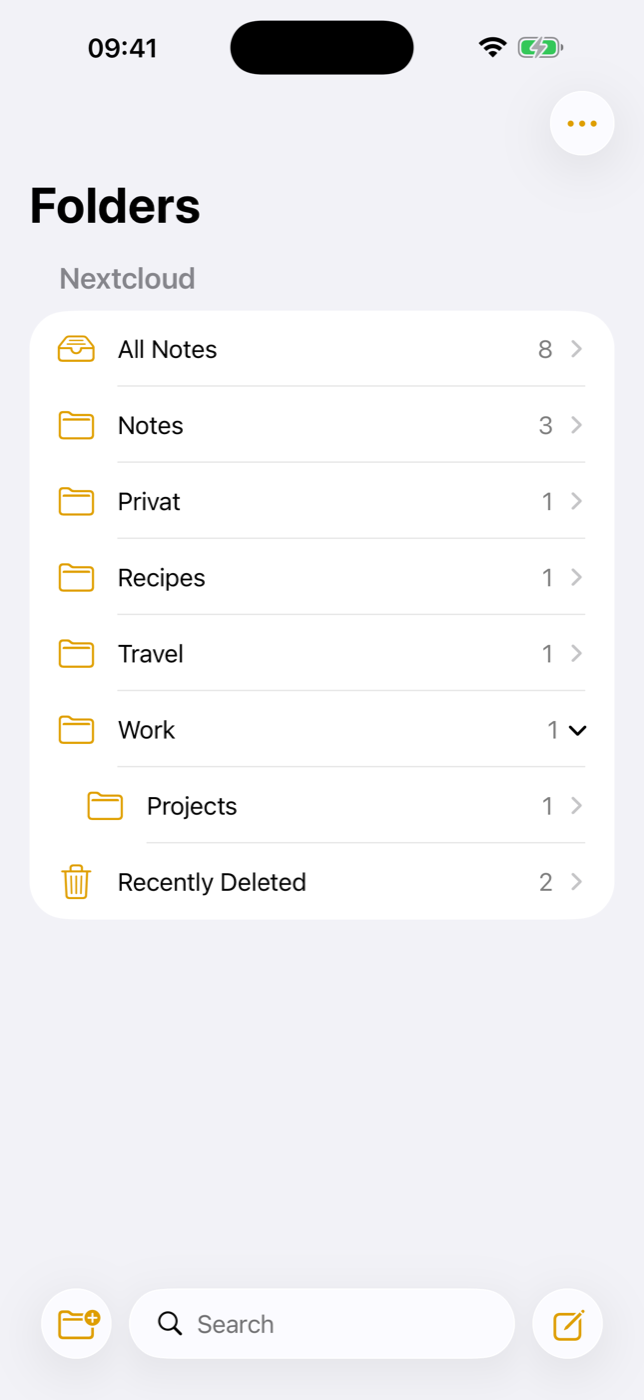
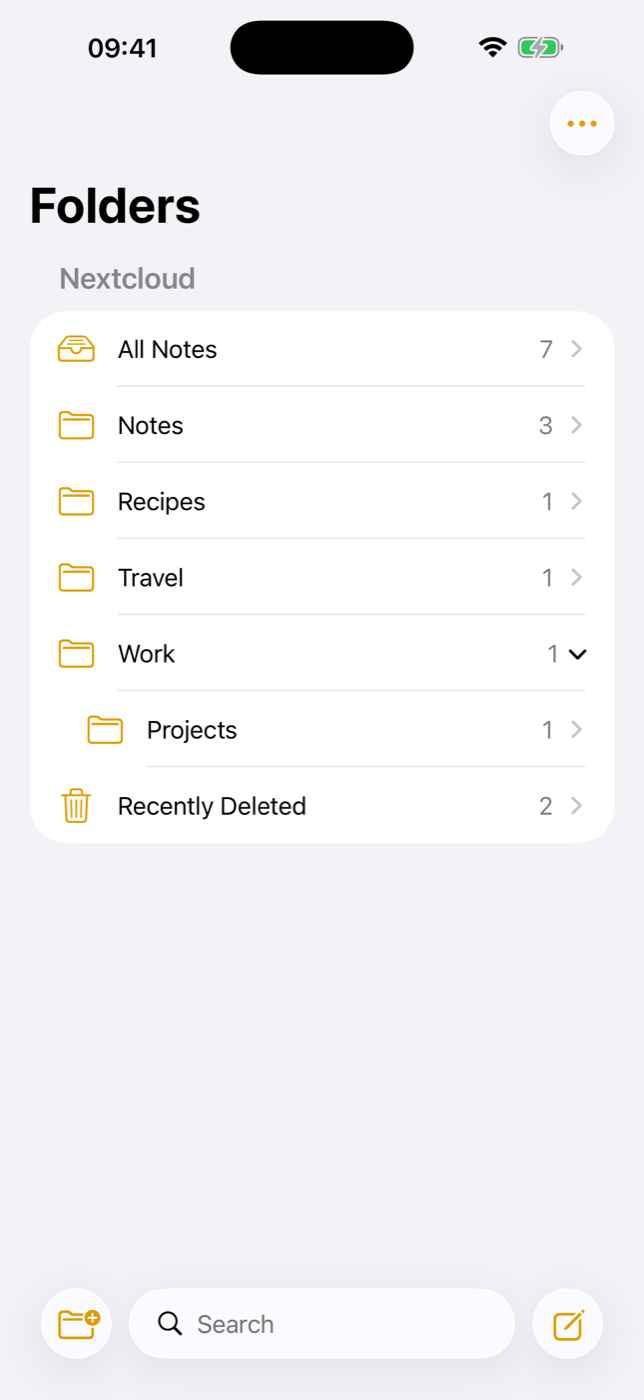
New notes go to the viewed folder like Apple Notes; joinable sync; English-only screenshots
- New note from a note opened in All Notes lands in the default folder Notes; only a viewed
  folder (also with an open note) receives it (Router.category(forNewNoteIn:), unit + UI test)
- Pull to refresh while a sync is running now waits for it and syncs again instead of returning at once
- Screenshots retaken with English demo data only

diff --git a/Tests/UI/HomeNotesUITests.swift b/Tests/UI/HomeNotesUITests.swift
@@ -68,4 +68,47 @@ final class HomeNotesUITests: XCTestCase {
         app.buttons["Löschen"].firstMatch.tap()
         XCTAssertFalse(app.staticTexts[title].firstMatch.waitForExistence(timeout: 3))
     }
+
+    /// Neue Notiz aus einer Notiz heraus, die in „Alle Notizen“ geöffnet wurde → Standardordner „Notizen“.
+    @MainActor
+    func testNewNoteFromAllNotesGoesToDefaultFolder() throws {
+        let env = ProcessInfo.processInfo.environment
+        guard let s = env["NOTES_SERVER"], let u = env["NOTES_USER"], let p = env["NOTES_PASSWORD"], !s.isEmpty else {
+            throw XCTSkip("Kein Testkonto")
+        }
+        let app = XCUIApplication()
+        app.launchEnvironment = ["NOTES_SERVER": s, "NOTES_USER": u, "NOTES_PASSWORD": p]
+        app.launchArguments = ["-AppleLanguages", "(de)", "-AppleLocale", "de_DE"]
+        app.launch()
+
+        // eine Notiz aus einem anderen Ordner (Demodaten „Travel“) in „Alle Notizen“ öffnen
+        let other = app.buttons.matching(NSPredicate(format: "identifier BEGINSWITH 'note.' AND label CONTAINS 'Travel'")).firstMatch
+        guard other.waitForExistence(timeout: 20) else { throw XCTSkip("Keine Notiz im Ordner Travel") }
+        other.tap()
+        XCTAssertTrue(app.textViews["editor"].waitForExistence(timeout: 10))
+
+        let title = "Ordnertest \(Int(Date().timeIntervalSince1970) % 100000)"
+        app.buttons["compose"].firstMatch.tap()
+        let editor = app.textViews["editor"]
+        XCTAssertTrue(editor.waitForExistence(timeout: 10))
+        editor.typeText(title)
+        app.buttons["done"].firstMatch.tap()
+        app.navigationBars.buttons.element(boundBy: 0).tap()
+
+        let row = app.buttons["note.\(title)"].firstMatch
+        XCTAssertTrue(row.waitForExistence(timeout: 10))
+        XCTAssertTrue(row.label.contains("Notizen"), row.label)
+        XCTAssertFalse(row.label.contains("Travel"), row.label)
+
+        // aufräumen: löschen und aus „Zuletzt gelöscht“ entfernen
+        row.swipeLeft()
+        app.buttons["Löschen"].firstMatch.tap()
+        app.navigationBars.buttons.element(boundBy: 0).tap()
+        let trash = app.buttons["folder.trash"].firstMatch
+        if trash.waitForExistence(timeout: 10) {
+            trash.tap()
+            let t = app.staticTexts[title].firstMatch
+            if t.waitForExistence(timeout: 5) { t.swipeLeft(); app.buttons["Löschen"].firstMatch.tap() }
+        }
+    }
 }

diff --git a/App/Editor/EditorView.swift b/App/Editor/EditorView.swift
@@ -18,7 +18,8 @@ struct NoteEditorView: View {
     @Environment(\.dismiss) private var dismiss
     @AppStorage("newNoteStyle") private var newNoteStyle = BlockKind.title.rawValue
     @State private var editor = EditorController()
-    @State private var router = AttachRouter.shared
+    @State private var attachRouter = AttachRouter.shared
+    @Environment(Router.self) private var router
     @State private var photoItems: [PhotosPickerItem] = []
     @State private var showPhotos = false
     @State private var showCamera = false
@@ -46,9 +47,9 @@ struct NoteEditorView: View {
             .onChange(of: store.serverRevision) {
                 if let n = note, !isTrash { editor.reloadIfChanged(markdown: n.content, modified: n.modifiedDate) }
             }
-            .onChange(of: router.pending) {
-                guard let s = router.pending else { return }
-                router.pending = nil
+            .onChange(of: attachRouter.pending) {
+                guard let s = attachRouter.pending else { return }
+                attachRouter.pending = nil
                 attach(s)
             }
             .sheet(item: $editor.tableEdit) { e in
@@ -157,7 +158,8 @@ struct NoteEditorView: View {
                 }
                 ToolbarSpacer(.flexible, placement: .bottomBar)
                 ToolbarItem(placement: .bottomBar) {
-                    NewNoteButton(category: note?.category ?? "", replace: true)
+                    // wie Apple: Ordner der Liste, aus der die Notiz geöffnet wurde („Alle Notizen“ → Standardordner)
+                    NewNoteButton(category: router.categoryForNewNote, replace: true)
                 }
             }
         }

diff --git a/Tests/Unit/RouterTests.swift b/Tests/Unit/RouterTests.swift
@@ -1,0 +1,19 @@
+import XCTest
+@testable import HomeNotes
+
+/// Neue Notiz landet wie bei Apple im angesehenen Ordner – aus „Alle Notizen“ (auch aus einer dort geöffneten
+/// Notiz eines anderen Ordners) im Standardordner „Notizen“.
+final class RouterTests: XCTestCase {
+    func testNewNoteFolder() {
+        // Alle Notizen → Notiz aus „Travel“ geöffnet → Standardordner
+        XCTAssertEqual(Router.category(forNewNoteIn: [.folder(.all), .note(12)]), "")
+        XCTAssertEqual(Router.category(forNewNoteIn: [.folder(.all)]), "")
+        // Ordner „Travel“ angesehen (auch mit offener Notiz) → Travel
+        XCTAssertEqual(Router.category(forNewNoteIn: [.folder(.category("Travel"))]), "Travel")
+        XCTAssertEqual(Router.category(forNewNoteIn: [.folder(.all), .folder(.category("Work/Projects")), .note(3)]), "Work/Projects")
+        // Ordner „Notizen“, Zuletzt gelöscht, Suche aus der Ordnerliste
+        XCTAssertEqual(Router.category(forNewNoteIn: [.folder(.category("")), .note(1)]), "")
+        XCTAssertEqual(Router.category(forNewNoteIn: [.folder(.trash)]), "")
+        XCTAssertEqual(Router.category(forNewNoteIn: [.note(5)]), "")
+    }
+}

diff --git a/App/UI/RootView.swift b/App/UI/RootView.swift
@@ -1,6 +1,6 @@
 import SwiftUI
 
-enum Route: Hashable {
+nonisolated enum Route: Hashable {
     case folder(FolderID)
     case note(Int)
     case trashNote(UUID)
@@ -9,6 +9,20 @@ enum Route: Hashable {
 @MainActor @Observable
 final class Router {
     var path: [Route] = [.folder(.all)]
+
+    /// Ordner für eine neue Notiz: der zuletzt geöffnete Ordner im Stapel. „Alle Notizen“, „Zuletzt gelöscht“
+    /// oder gar keiner → Standardordner „Notizen“ (Kategorie ""), wie bei Apple.
+    var categoryForNewNote: String { Self.category(forNewNoteIn: path) }
+
+    nonisolated static func category(forNewNoteIn path: [Route]) -> String {
+        for r in path.reversed() {
+            if case .folder(let f) = r {
+                if case .category(let c) = f { return c }
+                return ""
+            }
+        }
+        return ""
+    }
 
     func openNote(_ id: Int, replace: Bool = false) {
         if replace, case .note = path.last { path.removeLast() }

diff --git a/App/Core/NoteStore.swift b/App/Core/NoteStore.swift
@@ -443,7 +443,22 @@ final class NoteStore {
     /// Voller Abgleich: erst eigene Änderungen hoch, dann Serverstand holen, dann Ordner/Erstellungsdaten per WebDAV.
     func sync() async {
         guard client.isSignedIn else { return }
-        if isSyncing { syncAgain = true; return }
+        // Läuft schon ein Abgleich (z. B. der regelmäßige), danach noch einmal abgleichen und darauf warten –
+        // sonst endet „Herunterziehen“ sofort, ohne dass etwas passiert
+        if let running = runningSync {
+            syncAgain = true
+            await running.value
+            return
+        }
+        let t = Task { await self.syncLoop() }
+        runningSync = t
+        await t.value
+        runningSync = nil
+    }
+
+    private var runningSync: Task<Void, Never>?
+
+    private func syncLoop() async {
         isSyncing = true
         defer { isSyncing = false }
         repeat {
